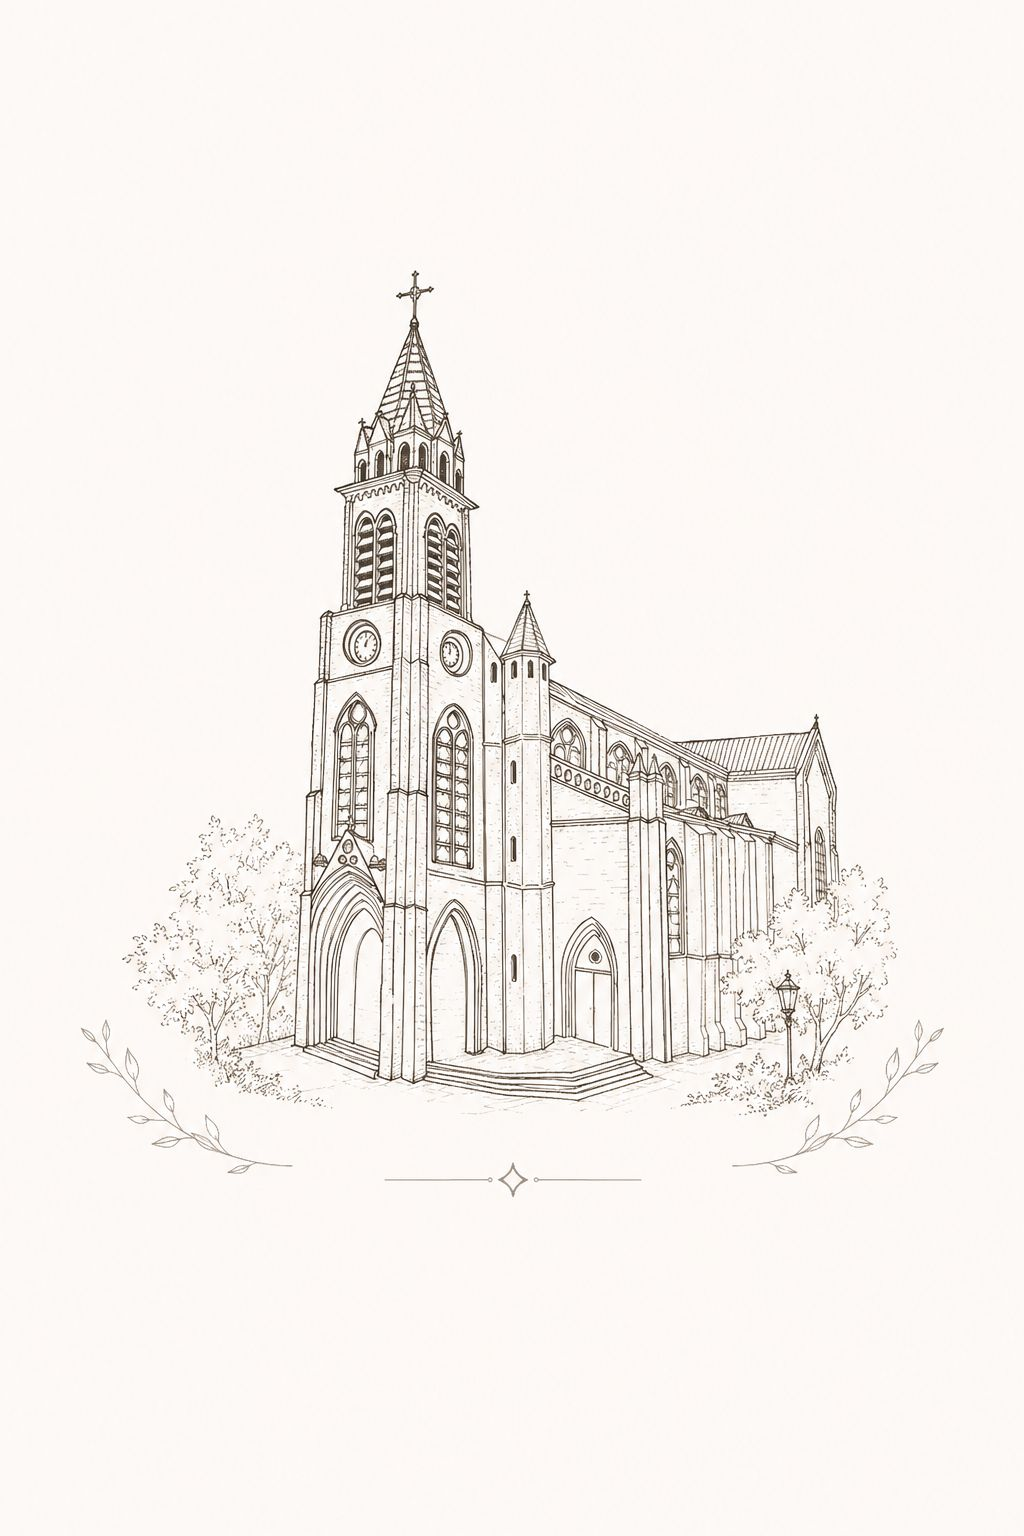
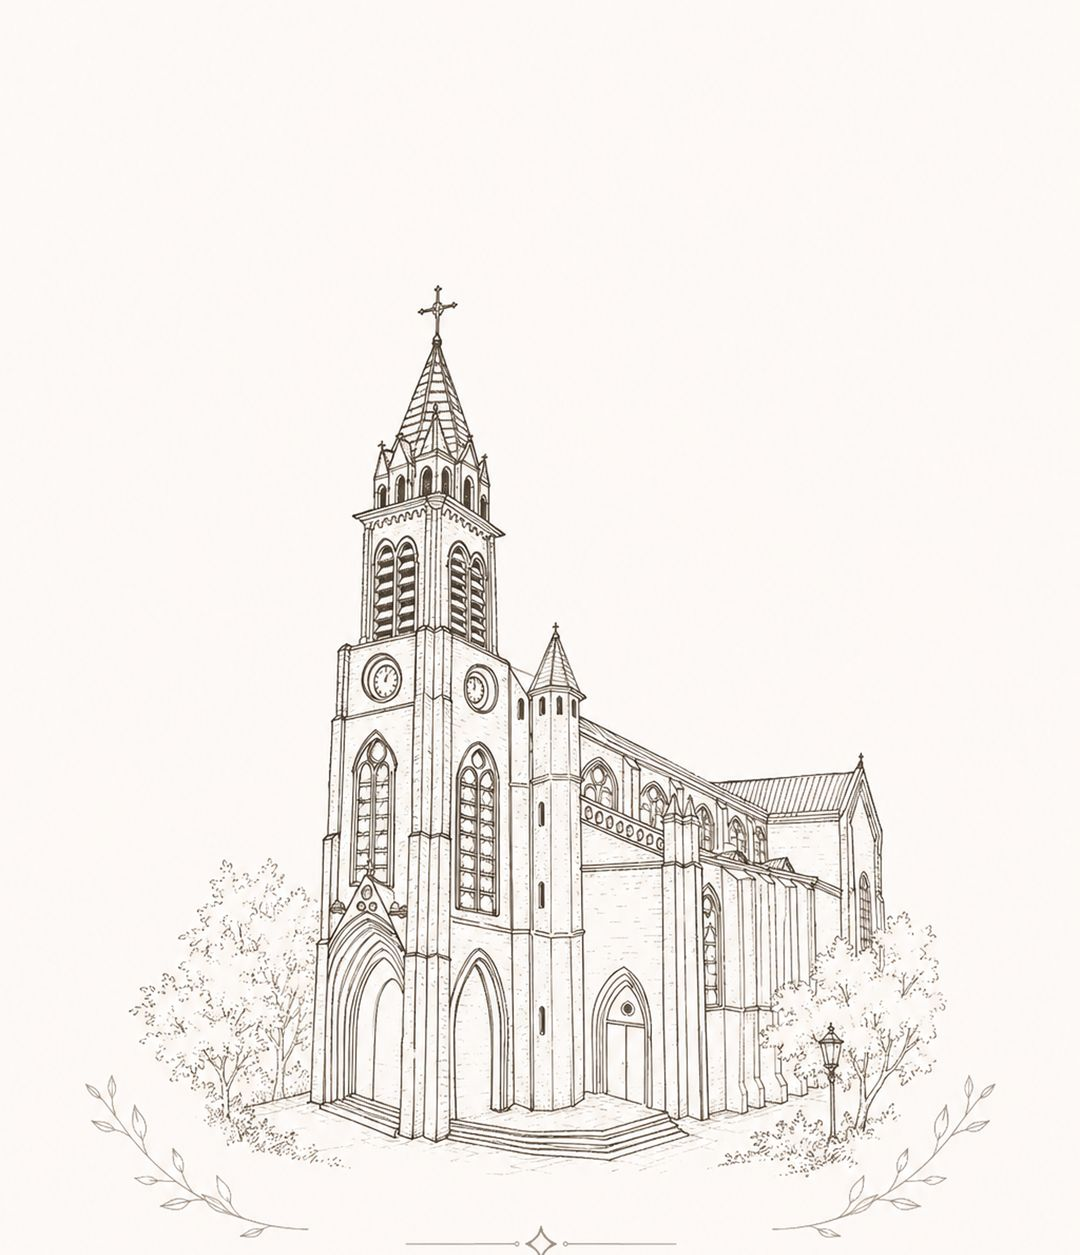
오시는 길: 제목과 예식장 이름 사이에 일러스트가 온전히 보이도록 히어로 확장, 새 일러스트 적용

diff --git a/css/style.css b/css/style.css
@@ -570,12 +570,16 @@ body {
   padding: 0;   /* 상단/하단 블록이 각자 여백을 가짐 */
   color: #33272c;
 }
-/* 상단: 성당 일러스트 배경 (주소까지만) */
+/* 상단: 성당 일러스트 배경 — 제목과 예식장 이름 사이를 비워 일러스트가 보이도록 */
 .location__hero {
   position: relative;
+  display: flex;
+  flex-direction: column;
+  min-height: 620px;
   padding: 72px 28px 34px;
-  background: #f7f1e8 url("../assets/venue-bg.jpg") center 22% / cover no-repeat;
+  background: #f7f1e8 url("../assets/venue-bg.jpg") center bottom / cover no-repeat;
 }
+.location__hero .location__venue { margin-top: auto; }  /* 이름·주소를 하단으로 */
 .location__hero::before {
   content: "";
   position: absolute;
@@ -586,6 +590,11 @@ body {
 }
 .location__hero > * { position: relative; z-index: 1; }
 .location__hero .location__address { color: #5a4a51; }
+/* 일러스트 위 글자가 또렷하게 보이도록 흰 광 */
+.location__hero .location__venue,
+.location__hero .location__address {
+  text-shadow: 0 0 6px rgba(255,252,247,.95), 0 0 14px rgba(255,252,247,.85);
+}
 /* 하단: 지도·교통편 — 은은한 블러시 핑크 배경 */
 .location__body {
   padding: 28px 28px 68px;
